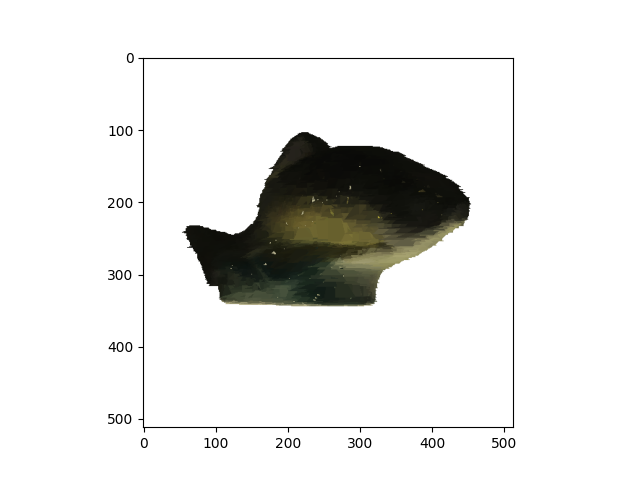
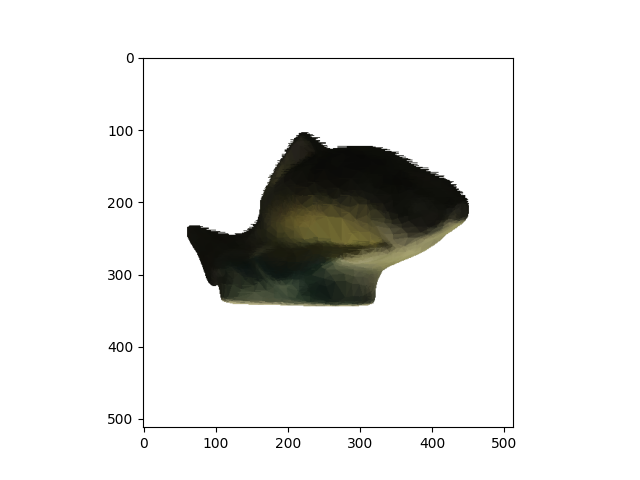
Flat almost working

diff --git a/shade_triangle.py b/shade_triangle.py
@@ -82,8 +82,8 @@ def shade_triangle(img, verts2d, vcolors, shade_t):
             for y in range(ymin, ymax + 1):
                 for x in range(int(xmin), int(xmax + 1)):
                     img[y][x] = color
-                xmin = xmin + right_slope
-                xmax = xmax + left_slope
+                xmin = (y + 1 - ymin) * left_slope + activ_peaks[0][0]
+                xmax = (y + 1 - ymin) * right_slope + activ_peaks[1][0]
 
         # if the triangle has an upper horizontal edge
         elif len(peaks_y_max) == 2:
@@ -96,8 +96,8 @@ def shade_triangle(img, verts2d, vcolors, shade_t):
             for y in range(ymin, ymax + 1):
                 for x in range(int(xmin), int(xmax + 1)):
                     img[y][x] = color
-                xmin = xmin + right_slope
-                xmax = xmax + left_slope
+                xmin = (y + 1 - ymax) * left_slope + peaks_y_max[0][0]
+                xmax = (y + 1 - ymax) * right_slope + peaks_y_max[1][0]
 
         # if the triangle is just any other triangle
         # split it in two triangles and call the shade_triangle (itself)
